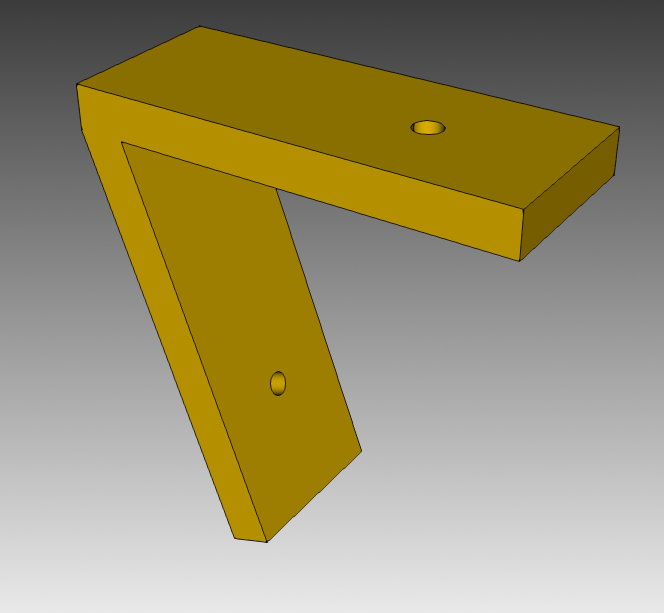
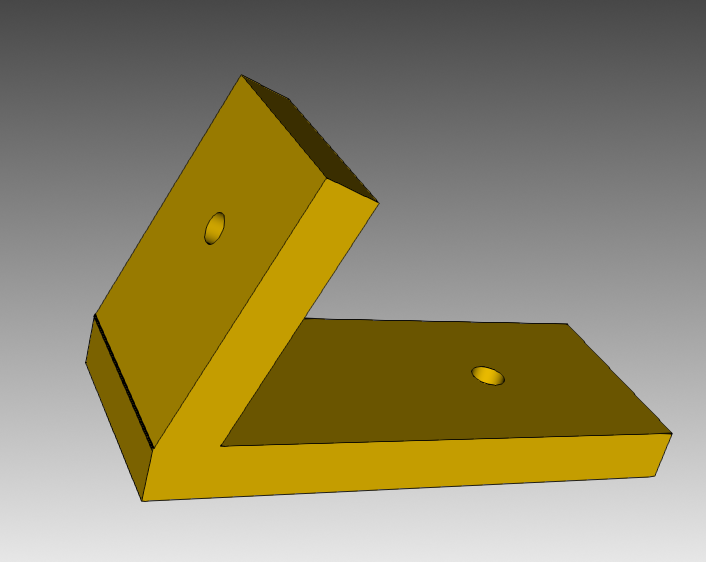
Reduce the length of m2.5 plate

diff --git a/bhl_display_mount.py b/bhl_display_mount.py
@@ -3,7 +3,8 @@ import cadquery as cq
 from cadquery.vis import show_object
 
 # Parameters for the L-shaped mount
-plate_length = 50.0  # Length of each side of the L
+base_plate_length = 50.0  # Length of base plate (M3 side)
+angled_plate_length = 25.0  # Length of angled plate (M2.5 side)
 plate_width = 20.0   # Width of the plates
 plate_thickness = 5.0  # Thickness of the plates
 angle = 70.0  # Angle between the two plates in degrees
@@ -11,35 +12,36 @@ angle = 70.0  # Angle between the two plates in degrees
 # Screw hole parameters
 m3_hole_diameter = 3.2  # M3 clearance hole
 m2_5_hole_diameter = 2.7  # M2.5 clearance hole
-hole_offset = 15.0  # Distance from edge to hole center
+base_hole_offset = 15.0  # Distance from edge to M3 hole center
+angled_hole_offset = 10.0  # Distance from edge to M2.5 hole center
 
 # Create the first plate (base plate with M3 hole)
 base_plate = (
     cq.Workplane("XY")
-    .box(plate_length, plate_width, plate_thickness, centered=(True, True, False))
+    .box(base_plate_length, plate_width, plate_thickness, centered=(True, True, False))
     .faces(">Z")
     .workplane(centerOption="CenterOfBoundBox")
-    .move(plate_length/2 - hole_offset, 0)
+    .move(base_plate_length/2 - base_hole_offset, 0)
     .hole(m3_hole_diameter)
 )
 
 # Create the second plate (angled plate with M2.5 hole)
 angled_plate = (
     cq.Workplane("XY")
-    .box(plate_length, plate_width, plate_thickness, centered=(True, True, False))
+    .box(angled_plate_length, plate_width, plate_thickness, centered=(True, True, False))
     .faces(">Z")
     .workplane(centerOption="CenterOfBoundBox")
-    .move(plate_length/2 - hole_offset, 0)
+    .move(angled_plate_length/2 - angled_hole_offset, 0)
     .hole(m2_5_hole_diameter)
 )
 
 # Rotate and position the angled plate to form the L-shape at 70 degrees
 # First, move it up so it rotates around the edge
-angled_plate = angled_plate.translate((plate_length/2, 0, 0))
+angled_plate = angled_plate.translate((base_plate_length/2, 0, 0))
 # Rotate around the Y-axis by the specified angle
 angled_plate = angled_plate.rotate((0, 0, 0), (0, 1, 0), angle)
 # Move it back to connect with the base plate
-angled_plate = angled_plate.translate((-plate_length/2, 0, 0))
+angled_plate = angled_plate.translate((-base_plate_length/1.707, 0, 12))
 
 # Combine the two plates to form the L-shaped bracket
 bracket = base_plate.union(angled_plate)
